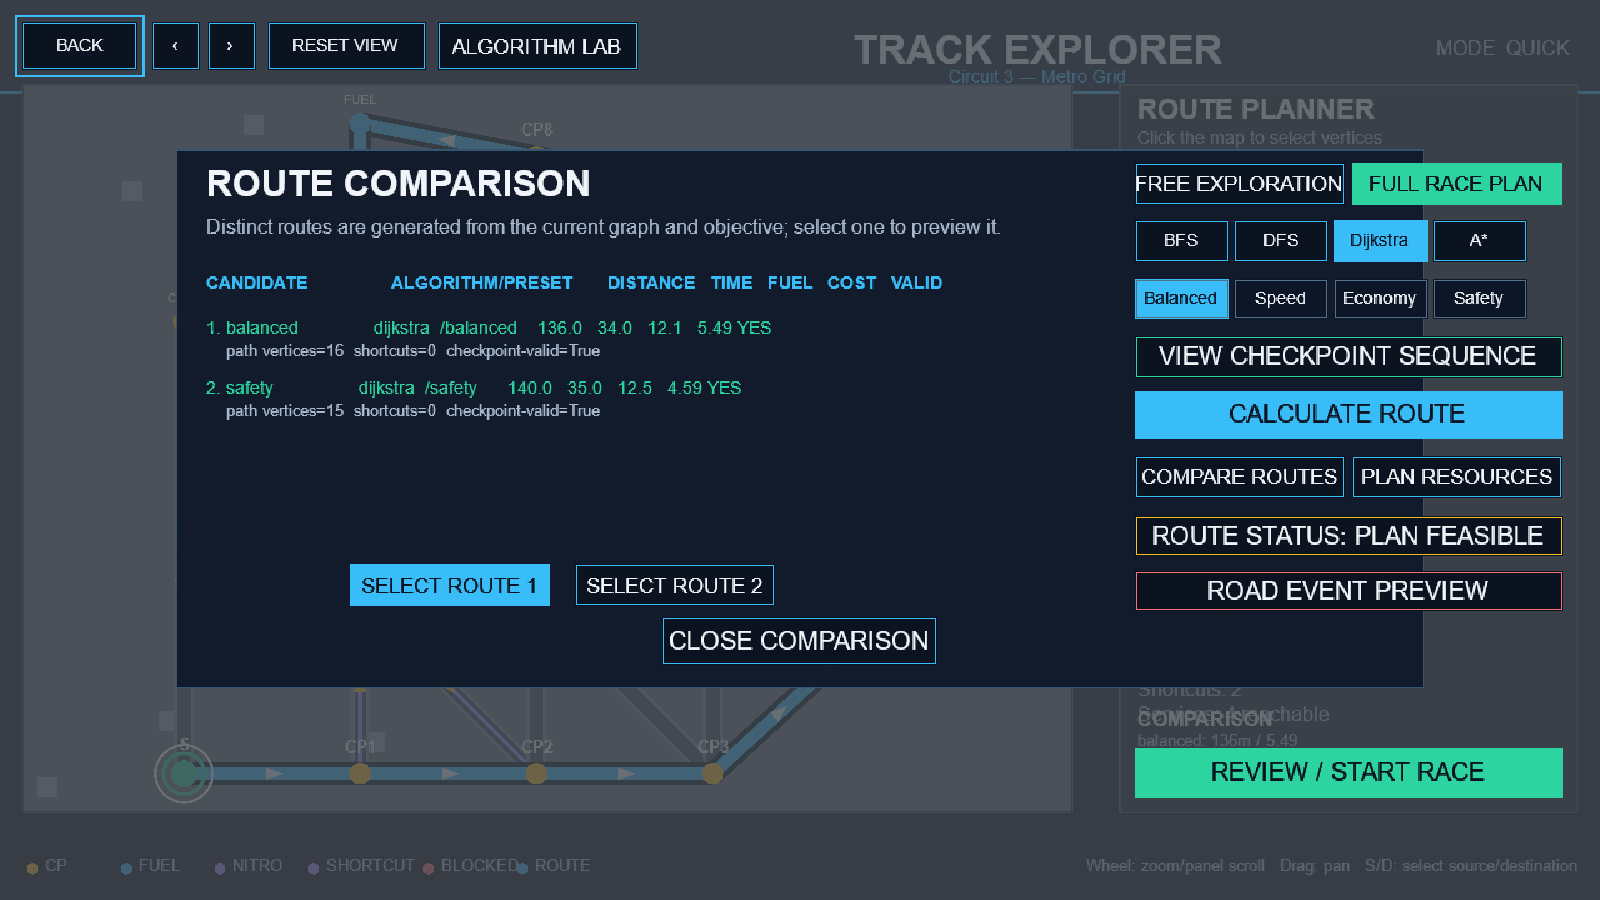
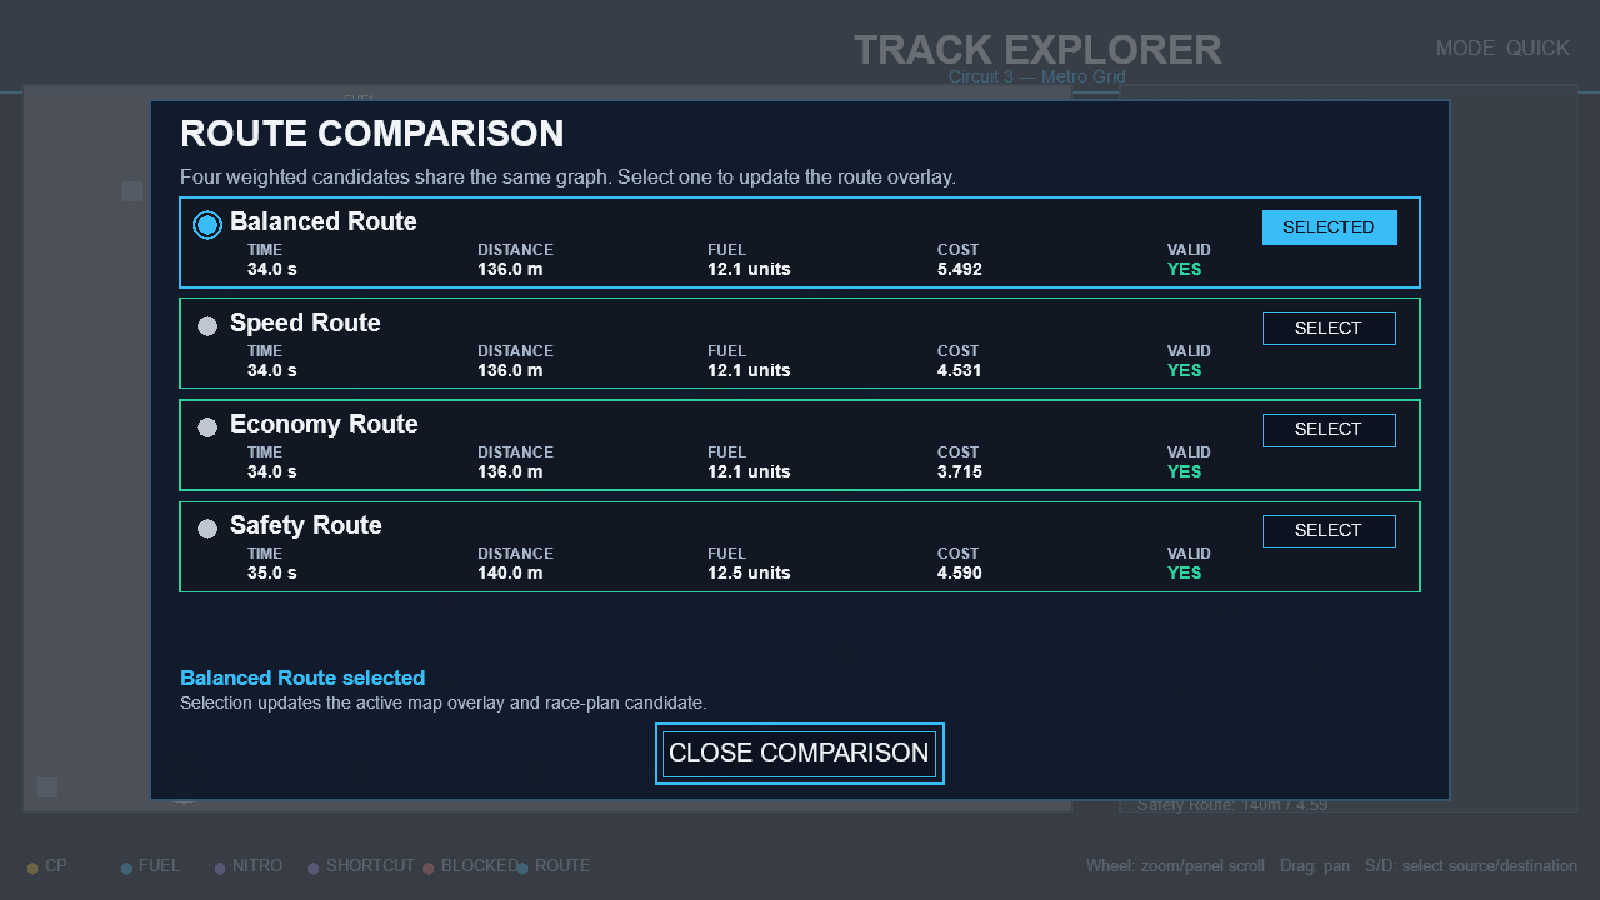
test(track-explorer): lock four-preset comparison UI

diff --git a/tests/unit/test_arcade_frontend.py b/tests/unit/test_arcade_frontend.py
@@ -1,9 +1,13 @@
 from __future__ import annotations
 
+from copy import deepcopy
+from types import SimpleNamespace
+
 from smart_racing.arcade_ui.app import MainMenuView, TrackExplorerView
 from smart_racing.arcade_ui.lab_view import CATALOG
 from smart_racing.arcade_ui.session import DEFAULT_SETTINGS, GameSession
 from smart_racing.services.race_engine import RaceEngine
+from smart_racing.services.route_planner import RoutePlanner
 from smart_racing.services.track_loader import load_tracks
 
 
@@ -112,6 +116,54 @@ def test_explorer_maps_display_algorithm_labels_to_service_keys():
     assert view.planner_algorithm == "astar"
     view.algorithm = "Dijkstra"
     assert view.planner_algorithm == "dijkstra"
+
+
+def test_explorer_comparison_keeps_all_four_weighted_preset_cards():
+    tracks = load_tracks()
+    track = tracks[0]
+    view = object.__new__(TrackExplorerView)
+    view.session = SimpleNamespace(tracks=tracks, selected_algorithm="Dijkstra")
+    view.track_index = 0
+    view.algorithm = "Dijkstra"
+    view.preset = "balanced"
+    view.comparison_selected_preset = "balanced"
+    view.explorer_mode = "full_race"
+    view.source_id = track.start_id
+    view.destination_id = track.finish_id
+    view.graph = deepcopy(track.graph())
+    view.route_result = RoutePlanner(track, "balanced").plan_route(
+        track.start_id, track.finish_id, "dijkstra", checkpoint_aware=True
+    )
+    view.route_revision = 0
+    view.graph_revision = 0
+    view.route_state = "PLAN_FEASIBLE"
+    view.comparison = {}
+    view.comparison_candidates = []
+    view.modal = None
+    view.status_message = ""
+    view.status_color = None
+    view.rebuild_ui = lambda: None
+
+    view.compare_routes()
+
+    assert [label for label, _report in view.comparison_candidates] == [
+        "Balanced Route",
+        "Speed Route",
+        "Economy Route",
+        "Safety Route",
+    ]
+    assert [report["preset"] for _label, report in view.comparison_candidates] == [
+        "balanced",
+        "speed",
+        "economy",
+        "safety",
+    ]
+    assert all(report["metrics"]["valid"] for _label, report in view.comparison_candidates)
+
+    view.close_modal = lambda: None
+    view.select_comparison(2)
+    assert view.preset == "economy"
+    assert view.route_result["preset"] == "economy"
 
 
 def test_arcade_phase_views_expose_all_required_algorithm_families():

diff --git a/docs/TRACK_EXPLORER_BUTTON_AUDIT.md b/docs/TRACK_EXPLORER_BUTTON_AUDIT.md
@@ -15,7 +15,7 @@ This audit covers the functional-overhaul branch. Each control is wired to a rea
 | SOURCE / DESTINATION | Arms click selection in Free Exploration | Guarded in Full Race Plan | `set_selection_mode()` and map click handler |
 | VIEW CHECKPOINT SEQUENCE | Shows mandatory ordered targets | Full-plan information only | checkpoint modal screenshot |
 | CALCULATE ROUTE | Runs the shared RoutePlanner on the current graph copy | Reports invalid/unreachable/stale state | route tests and Explorer frame |
-| COMPARE ROUTES | Computes distinct candidates from the same graph/objective | Deduplicates identical paths | comparison modal screenshot |
+| COMPARE ROUTES | Computes all four weighted candidates from the same graph/objective | Preserves identical paths as separate objective candidates and shows unavailable candidates as invalid | comparison modal screenshots |
 | PLAN RESOURCES | Runs fuel feasibility plus Nitro DP/Greedy planning | Does not silently alter race rules | resource modal screenshot |
 | ROUTE STATUS | Explains current route state | Distinguishes no route, stale, invalid, feasible, infeasible | `show_route_status()` |
 | ROAD EVENT PREVIEW | Opens road selection and event actions | Events apply to Explorer graph copy only | event modal screenshot |
@@ -30,4 +30,4 @@ This audit covers the functional-overhaul branch. Each control is wired to a rea
 ## Visual evidence
 
 - Base states: `docs/screenshots/arcade_explorer_overhaul_1280.png`, `arcade_explorer_overhaul_1600.png`, `arcade_explorer_overhaul_1920.png`.
-- Modal states: `arcade_explorer_compare_1280.png`, `arcade_explorer_resources_1280.png`, `arcade_explorer_events_1280.png`, and `arcade_explorer_start_confirm_1280.png`.
+- Modal states: `arcade_explorer_compare_1280.png`, `arcade_explorer_compare_1600.png`, `arcade_explorer_compare_1920.png`, `arcade_explorer_resources_1280.png`, `arcade_explorer_events_1280.png`, and `arcade_explorer_start_confirm_1280.png`.

diff --git a/docs/OVERNIGHT_PROGRESS.md b/docs/OVERNIGHT_PROGRESS.md
@@ -40,3 +40,10 @@ This ledger records evidence-backed work for the Smart Racing Championship final
 - Added: authoritative geometry validator and circuit-01 duplicate-coordinate correction; all three circuits pass geometry validation with warnings recorded separately from errors.
 - Visual QA: inspected base Explorer frames at requested logical 1280x720, 1600x900, and 1920x1080 sizes, plus comparison, resource, road-event, and start-confirmation modal frames. Fixed a fullscreen smoke-size bug, narrow-width label/title collisions, a resource-modal tuple bug, and modal button overlap.
 - Verification: `python -m pytest -q` → 40 passed; `python -m ruff check .` → passed; `python -m compileall -q src tests run_*.py build_report.py` → passed. Full validation, championship, experiments, and report audits remain part of the final pre-push gate.
+
+## 2026-11-21 — Four-preset comparison correction
+
+- Corrected the Explorer comparison workflow so it always displays Balanced, Speed, Economy, and Safety from the shared weighted planner; identical paths remain separate objective candidates instead of being deduplicated.
+- Added symmetric selectable route cards with Time, Distance, Fuel, Cost, and Valid metrics, selected-state highlighting, invalid-candidate preservation, and responsive modal geometry.
+- Visual verification: inspected updated comparison captures at logical 1280x720 and 1600x900; fixed modal layering, focus outline leakage, and card metric/title overlap.
+- Regression: `python -m pytest -q` → 41 passed; `python -m ruff check .` → passed.

diff --git a/docs/PROGRESS.md b/docs/PROGRESS.md
@@ -30,7 +30,7 @@ Status: `COMPLETE` for the expanded gameplay/UI and release gates in the current
 - Race engine now uses `GameConfig.fixed_timestep = 1/60` and caches a route during edge traversal.
 - Race engine now accepts deterministic player throttle, brake, junction-exit, refuel, and nitro requests without allowing invalid graph edges.
 - Track Explorer now supports selectable start/destination vertices, checkpoint-aware planning, weighted route arrows, map zoom/pan/hover, wrapped descriptions, algorithm complexity/counters, exact physical metrics, fuel DP, nitro DP/Greedy recommendations, four-preset comparison, and live closure rerouting.
-- Existing algorithm, race, event, sorting, UI, championship, player-control, nitro, route-planner, track-validation, AI fuel, Explorer integration, geometry, and Arcade session tests are green (40 passed).
+- Existing algorithm, race, event, sorting, UI, championship, player-control, nitro, route-planner, track-validation, AI fuel, Explorer integration, geometry, comparison-card, and Arcade session tests are green (41 passed).
 - Pygame visual smoke renders all five screens at 1440x900 and 1280x720 plus one Explorer screenshot for each redesigned circuit; the racing screen now shows layered roads, procedural cars, themed scenery, gates, services, pickups, camera follow, minimap, gauges, standings, and event state.
 - All three circuits complete full deterministic races and a full championship after the redesign.
 - Experiments and technical report were regenerated after the gameplay/UI changes.

diff --git a/docs/REQUIREMENTS_TRACEABILITY.md b/docs/REQUIREMENTS_TRACEABILITY.md
@@ -42,7 +42,7 @@ Source priority: the supplied `Project.pdf` is authoritative; the implementation
 | Multi-objective bonus | PDF 8.2 | cost presets | Explorer | preset comparison | VERIFIED | four presets |
 | Live top-k bonus | PDF 8.3 | heap `nsmallest` top-k | Dashboard service | top-k test | VERIFIED | comparator equality |
 | Responsive UI evidence | Improvement prompt 8/19, Phase 1 prompt | `tools/visual_smoke.py`, `docs/screenshots/` | all screens | real Pygame render plus Arcade smoke at 1280x720, 1600x900, 1920x1080 | VERIFIED | Pygame screenshots; latest Arcade menu, settings, instructions, circuit selection, Explorer, Racing, Lab, and Dashboard frames inspected |
-| Required tests | PDF 9.1 | `tests/` | n/a | `python -m pytest -q` | VERIFIED | 40 passed |
+| Required tests | PDF 9.1 | `tests/` | n/a | `python -m pytest -q` | VERIFIED | 41 passed |
 | Technical report | PDF 9.2 | `build_report.py` | n/a | PDF render inspection | VERIFIED | 5-page report |
 | Submission package | PDF 9.3 | `build_submission.ps1` | n/a | archive manifest/open | VERIFIED | ZIP generated |
 | Explorer route configuration handoff | Improvement task | `GameSession.route_plan` → Racing destination | Explorer -> Racing | `test_route_configuration_transfers_from_explorer_to_race_session` + direct view smoke | VERIFIED | circuit, algorithm, preset, endpoints, path, edge IDs, metrics, fuel plan |

diff --git a/docs/TEST_MATRIX.md b/docs/TEST_MATRIX.md
@@ -9,7 +9,7 @@ The project uses deterministic tests plus real Arcade/Pygame smoke captures. A f
 | Closures and rerouting | `tests/integration/test_ui_smoke.py`, race tests | Explorer blocked-edge capture | Pass |
 | Fuel and nitro | `tests/unit/test_route_planner.py`, `tests/integration/test_race.py` | Racing HUD capture | Pass |
 | Main Menu | `tests/unit/test_arcade_frontend.py` | Arcade 1280/1600/1920 captures | Pass |
-| Track Explorer | route/session, geometry, and Explorer integration tests | `arcade_explorer_overhaul_1280.png`, `_1600.png`, `_1920.png`, comparison/resources/events/start-confirmation captures | Pass |
+| Track Explorer | route/session, geometry, comparison-card, and Explorer integration tests | `arcade_explorer_overhaul_1280.png`, `_1600.png`, `_1920.png`, responsive comparison/resources/events/start-confirmation captures | Pass |
 | Racing Screen | race replay/control/sprint tests | `arcade_race_1280.png` | Pass |
 | Algorithm Lab | catalog/session tests and algorithm unit suite | `arcade_lab_1280.png` | Pass |
 | Championship Dashboard | scoring/championship tests | `arcade_dashboard_1280.png` | Pass |
